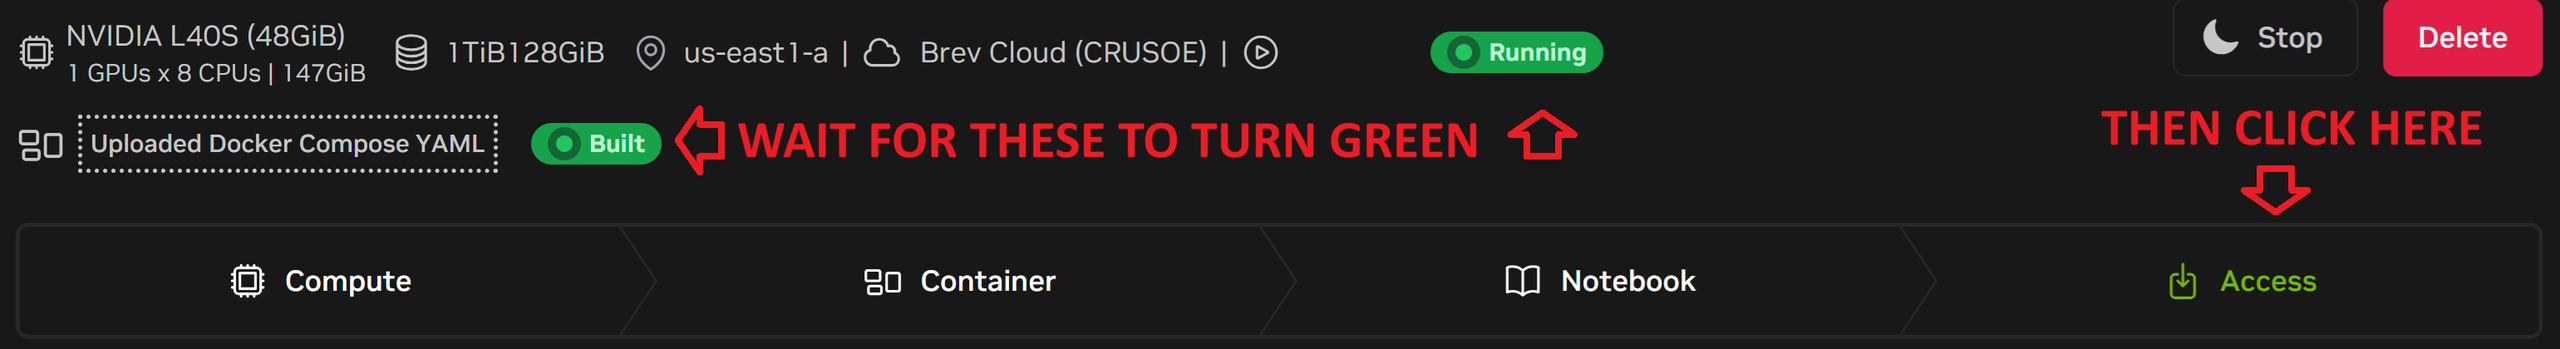
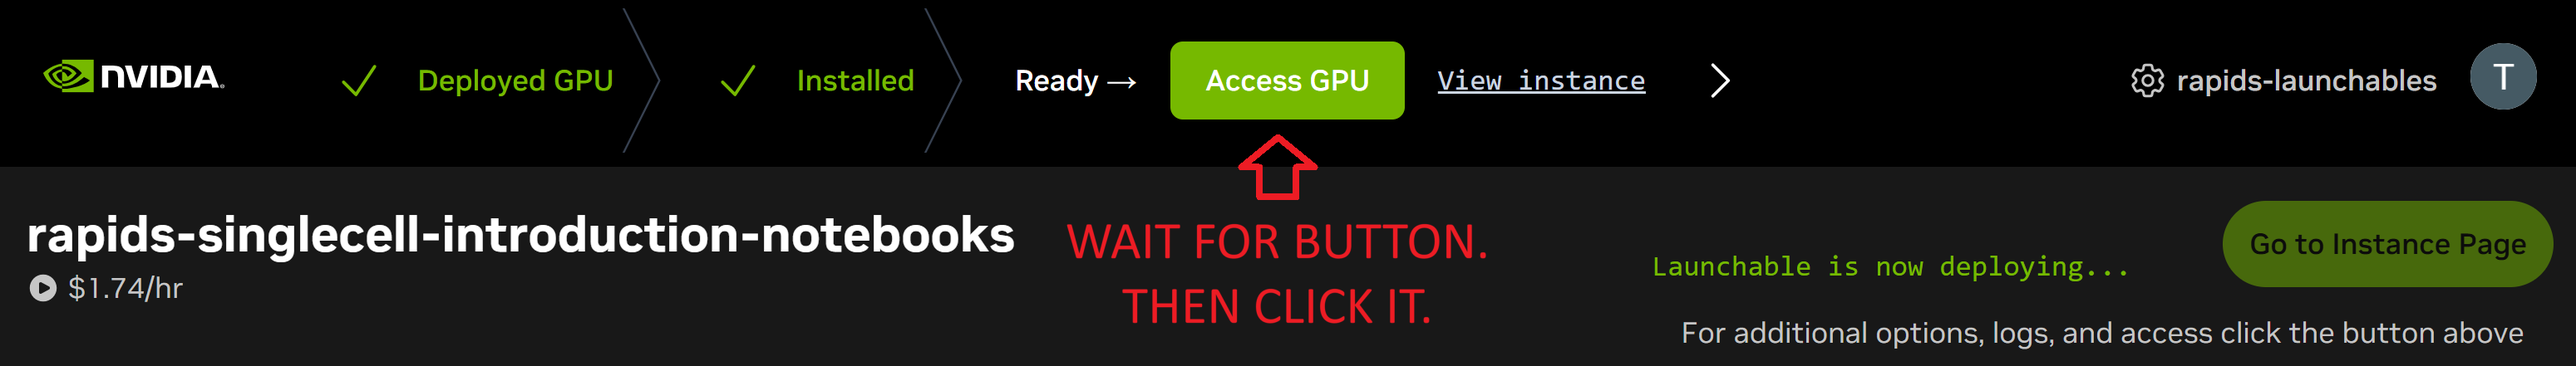
update readme with new flow

diff --git a/README.md b/README.md
@@ -63,11 +63,11 @@ Please click this button to deploy this Repo using Brev.dev's Launchables
 
    ![deploy_brev](https://github.com/clara-parabricks-workflows/RAPIDS-singlecell-introduction-notebooks/raw/main/assets/deploy_brev.png)
    
-3. Wait for the Container status to be **Running** and the container to be **Built** (can take up to 8 minutes).  Then, click **Access**
+3. Wait for the Container status show **Ready** (can take up to 8 minutes).  Then, click **Access GPU**
 
    ![go_on_green](https://github.com/clara-parabricks-workflows/RAPIDS-singlecell-introduction-notebooks/raw/main/assets/go_on_green.png)
    
-4. Scroll down to **Using Tunnels**, find port **8888**, and click on the **"Open in New Window" Icon** to jump into the RAPIDS Singlecell Brev.dev experience!
+4. On the **Instance** page, click **Open Notebook**
 
    ![open_notebook](https://github.com/clara-parabricks-workflows/RAPIDS-singlecell-introduction-notebooks/raw/main/assets/open_notebook.png)
 
